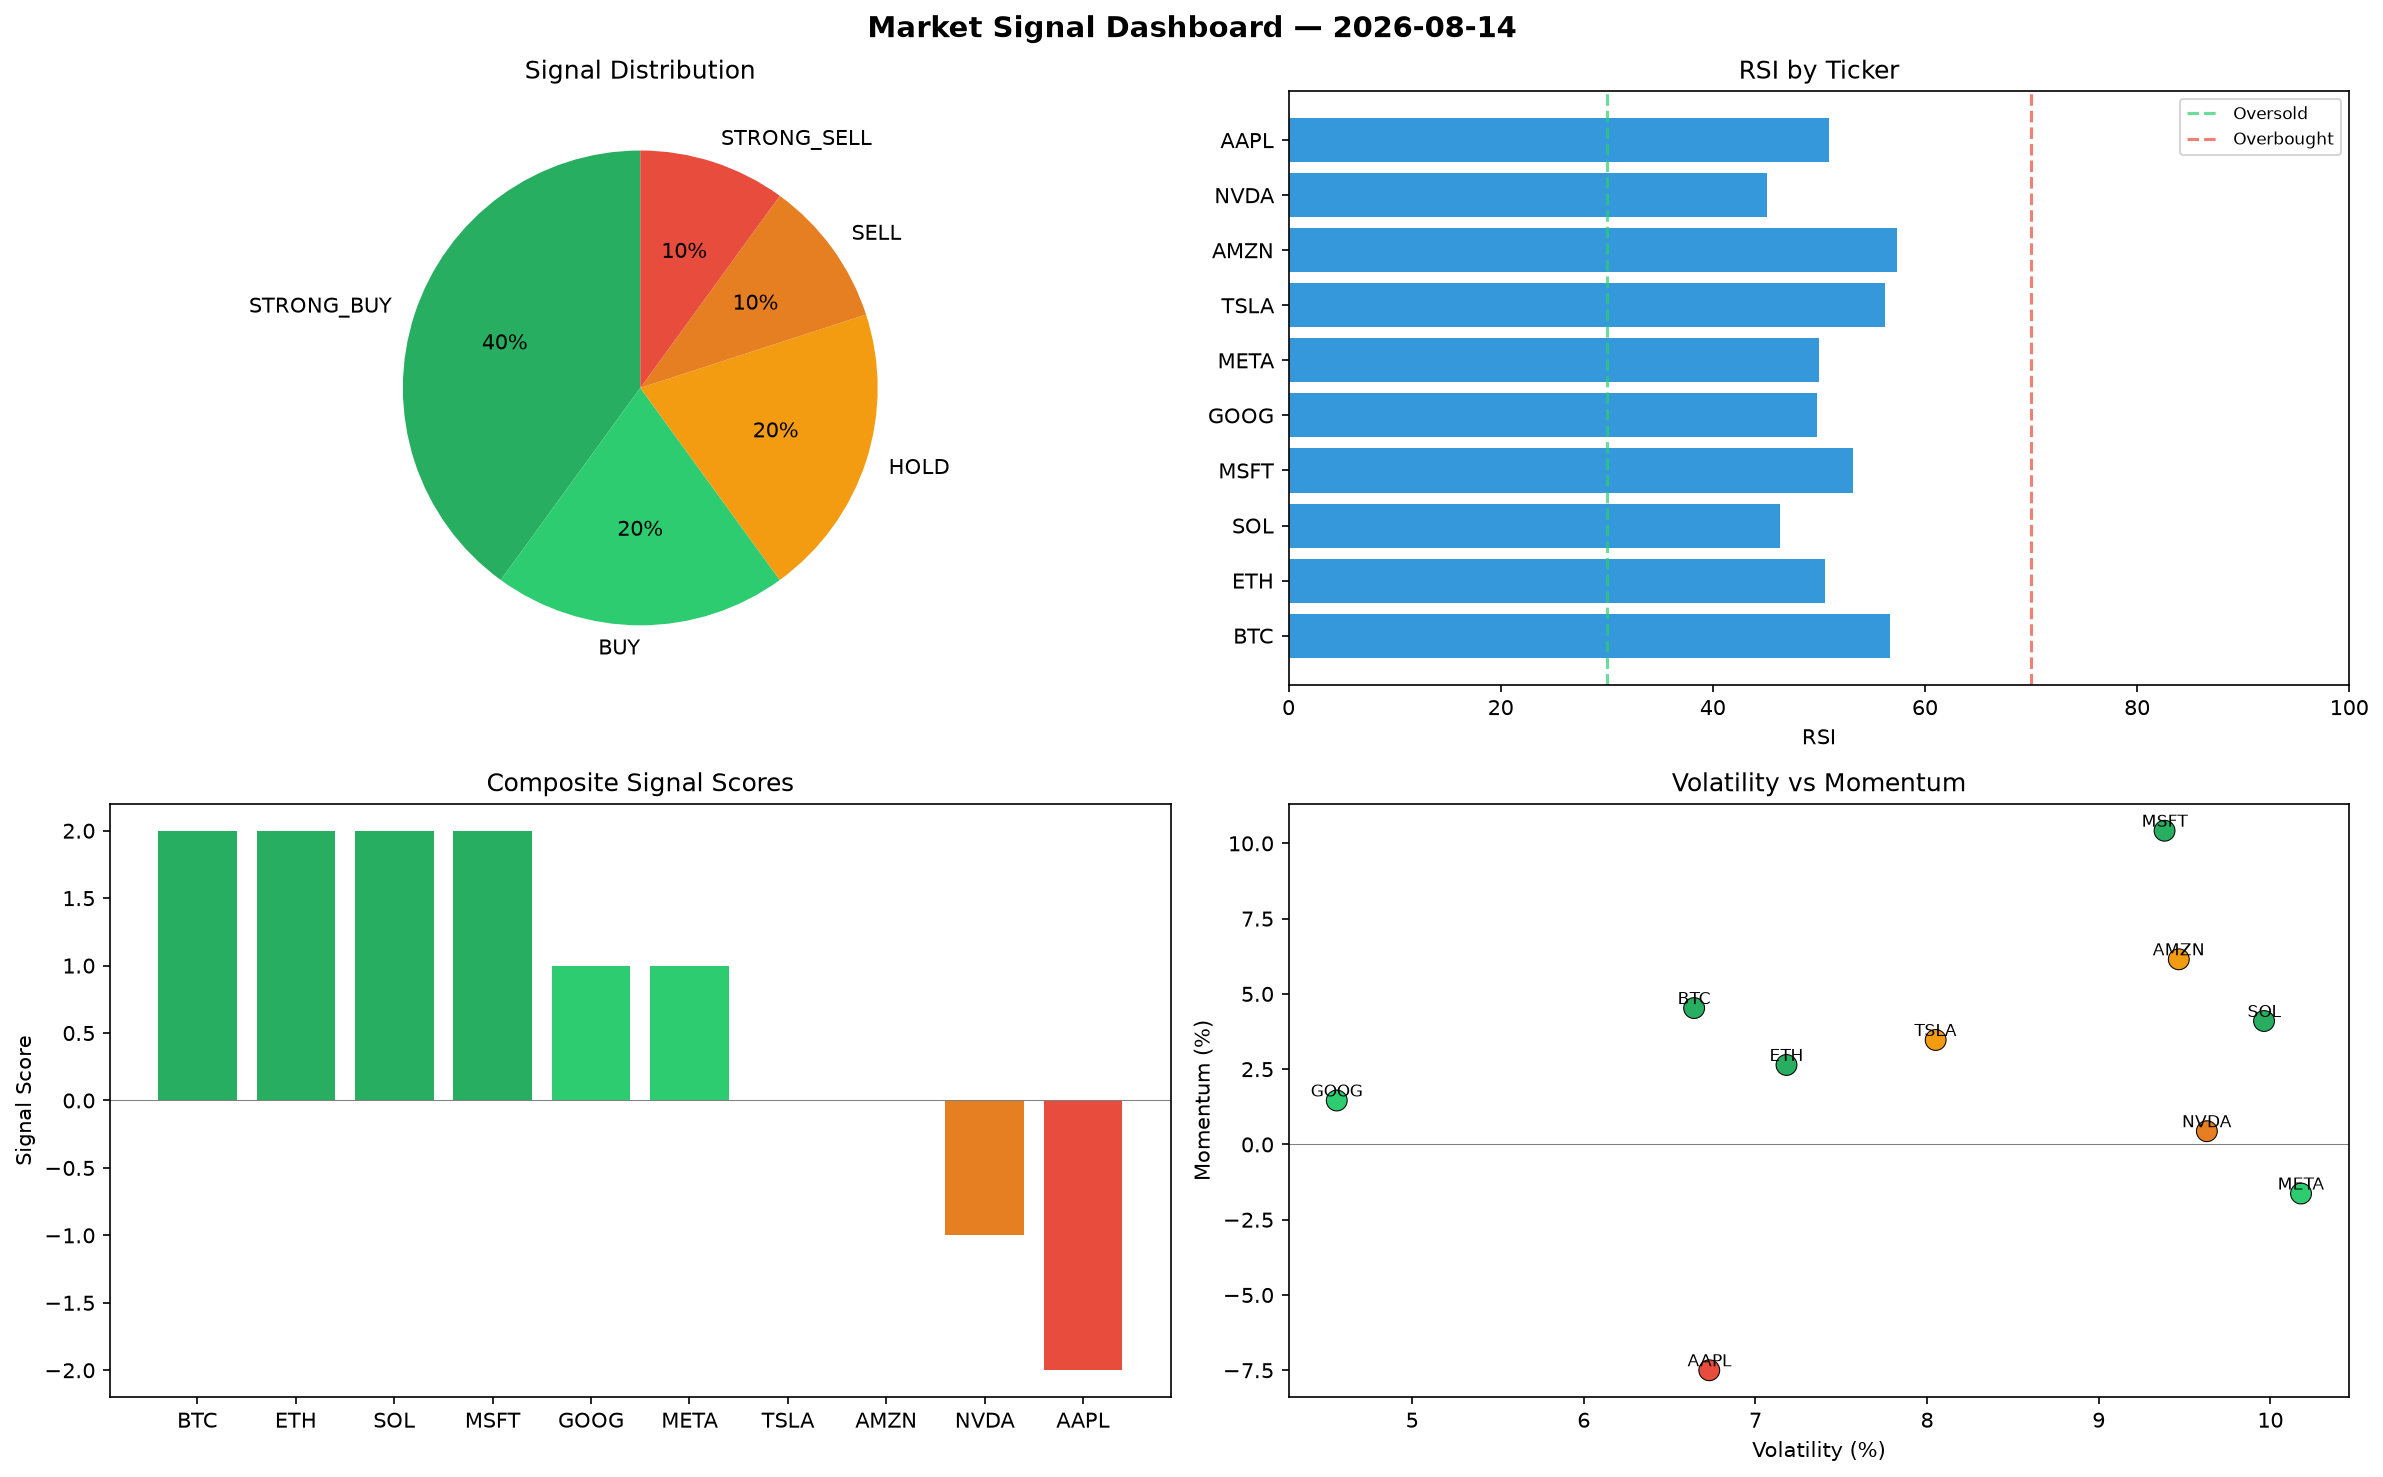
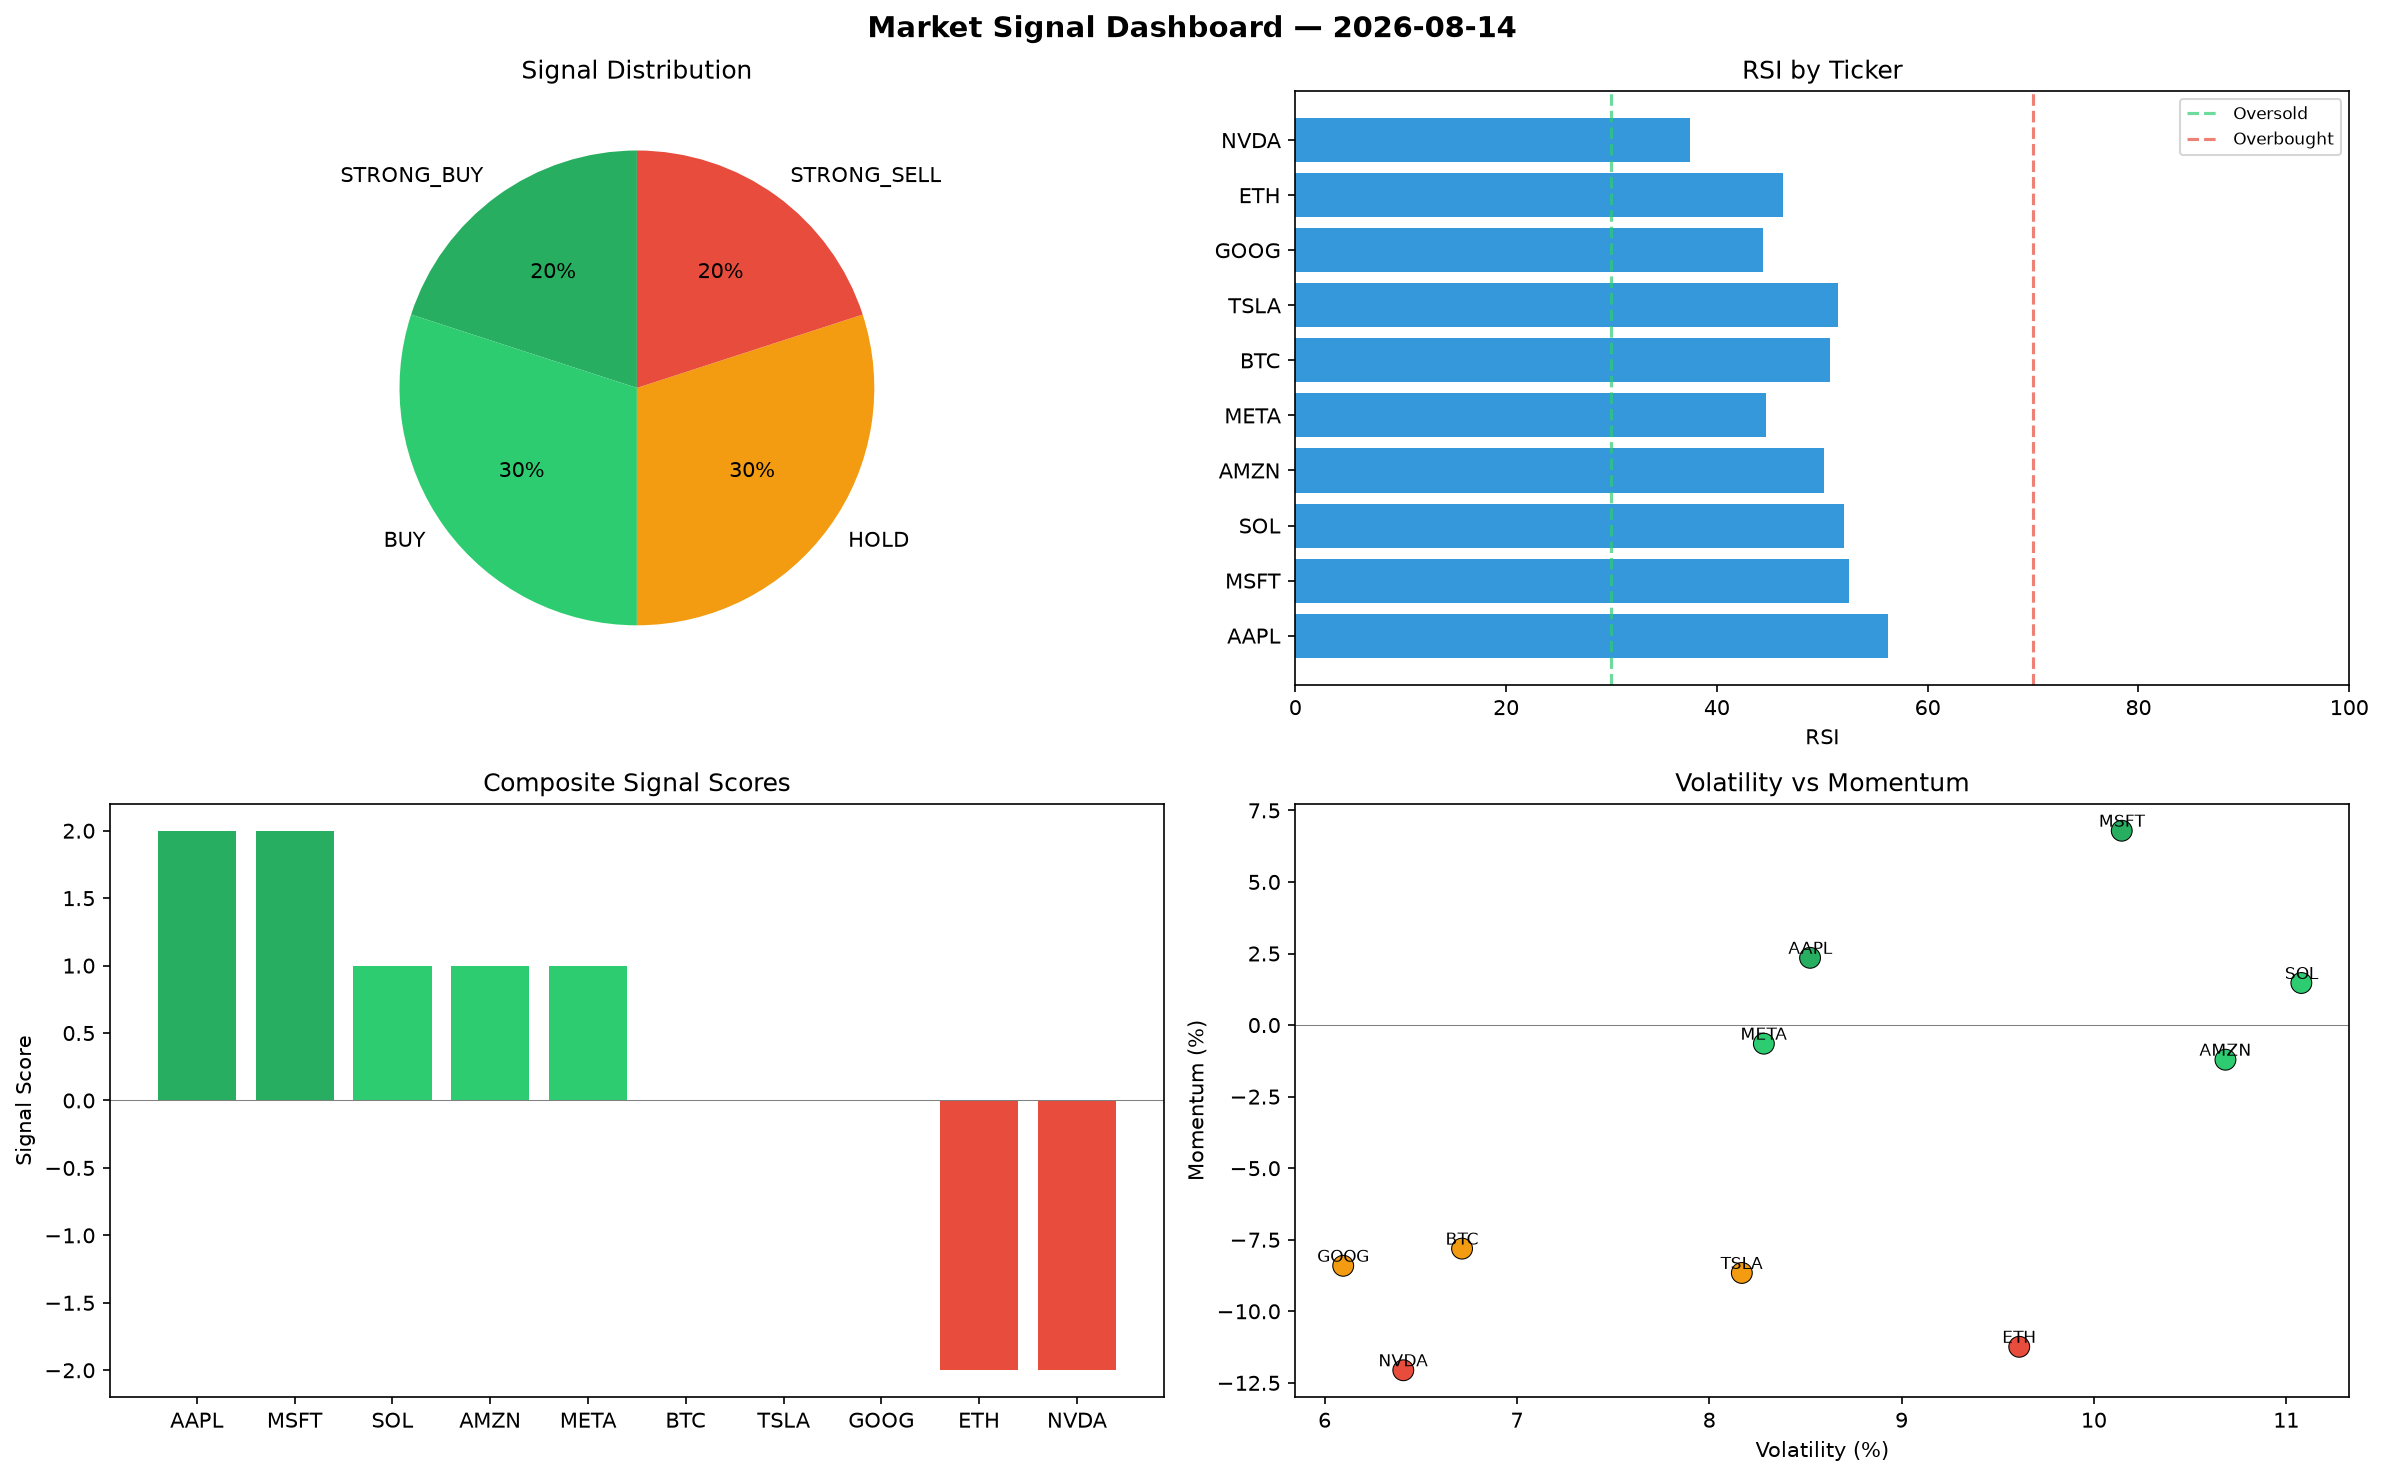
automated-bots: market signals 2026-08-14T09:33

diff --git a/logs/2026-08-14.md b/logs/2026-08-14.md
@@ -1,6 +1,6 @@
 # Market Signal Report — 2026-08-14
 
-**Run ID:** `5b253ebaba` | **Buy:** 6 | **Sell:** 2 | **Hold:** 2
+**Run ID:** `0dbe3caa49` | **Buy:** 5 | **Sell:** 2 | **Hold:** 3
 
 ![Dashboard](2026-08-14_dashboard.png)
 
@@ -8,28 +8,28 @@
 
 | Ticker | Price | Signal | Score | RSI | Momentum | Confidence |
 |--------|-------|--------|-------|-----|----------|------------|
-| BTC | $1363.44 | **STRONG_BUY** | 2 | 56.68 | 0.0453 | 0.5 |
-| ETH | $764.42 | **STRONG_BUY** | 2 | 50.55 | 0.0264 | 0.5 |
-| SOL | $4878.63 | **STRONG_BUY** | 2 | 46.34 | 0.041 | 0.5 |
-| MSFT | $3222.0 | **STRONG_BUY** | 2 | 53.19 | 0.1042 | 0.5 |
-| GOOG | $43.07 | **BUY** | 1 | 49.8 | 0.0146 | 0.25 |
-| META | $3998.67 | **BUY** | 1 | 49.97 | -0.0163 | 0.25 |
-| TSLA | $48.95 | **HOLD** | 0 | 56.22 | 0.0347 | 0.0 |
-| AMZN | $3673.68 | **HOLD** | 0 | 57.37 | 0.0615 | 0.0 |
-| NVDA | $2993.1 | **SELL** | -1 | 45.13 | 0.0044 | 0.25 |
-| AAPL | $3895.14 | **STRONG_SELL** | -2 | 50.94 | -0.075 | 0.5 |
+| AAPL | $2357.32 | **STRONG_BUY** | 2 | 56.19 | 0.0235 | 0.5 |
+| MSFT | $163.43 | **STRONG_BUY** | 2 | 52.5 | 0.0679 | 0.5 |
+| SOL | $3632.17 | **BUY** | 1 | 52.06 | 0.0147 | 0.25 |
+| AMZN | $723.95 | **BUY** | 1 | 50.19 | -0.0121 | 0.25 |
+| META | $2246.98 | **BUY** | 1 | 44.62 | -0.0065 | 0.25 |
+| BTC | $349.17 | **HOLD** | 0 | 50.73 | -0.0781 | 0.0 |
+| TSLA | $1605.78 | **HOLD** | 0 | 51.52 | -0.0866 | 0.0 |
+| GOOG | $4011.22 | **HOLD** | 0 | 44.35 | -0.0841 | 0.0 |
+| ETH | $1804.47 | **STRONG_SELL** | -2 | 46.3 | -0.1124 | 0.5 |
+| NVDA | $573.95 | **STRONG_SELL** | -2 | 37.45 | -0.1206 | 0.5 |
 
 ## Delta vs Yesterday
 
 | Ticker | Today | Yesterday | Price Change | Signal Changed |
 |--------|-------|-----------|-------------|----------------|
-| BTC | STRONG_BUY | HOLD | 📉 -65.62% | ⚠ YES |
-| ETH | STRONG_BUY | HOLD | 📉 -50.6% | ⚠ YES |
-| SOL | STRONG_BUY | SELL | 📈 1400.47% | ⚠ YES |
-| MSFT | STRONG_BUY | STRONG_SELL | 📈 88.03% | ⚠ YES |
-| GOOG | BUY | STRONG_SELL | 📉 -98.83% | ⚠ YES |
-| META | BUY | STRONG_BUY | 📉 -15.35% | ⚠ YES |
-| TSLA | HOLD | SELL | 📉 -97.94% | ⚠ YES |
-| AMZN | HOLD | STRONG_SELL | 📈 836.45% | ⚠ YES |
-| NVDA | SELL | STRONG_SELL | 📈 2733.84% | ⚠ YES |
-| AAPL | STRONG_SELL | SELL | 📉 -4.88% | ⚠ YES |
+| AAPL | STRONG_BUY | SELL | 📉 -42.43% | ⚠ YES |
+| MSFT | STRONG_BUY | STRONG_SELL | 📉 -90.46% | ⚠ YES |
+| SOL | BUY | SELL | 📈 1017.11% | ⚠ YES |
+| AMZN | BUY | STRONG_SELL | 📈 84.54% | ⚠ YES |
+| META | BUY | STRONG_BUY | 📉 -52.43% | ⚠ YES |
+| BTC | HOLD | HOLD | 📉 -91.19% | — |
+| TSLA | HOLD | SELL | 📉 -32.38% | ⚠ YES |
+| GOOG | HOLD | STRONG_SELL | 📈 9.16% | ⚠ YES |
+| ETH | STRONG_SELL | HOLD | 📈 16.61% | ⚠ YES |
+| NVDA | STRONG_SELL | STRONG_SELL | 📈 443.41% | — |
